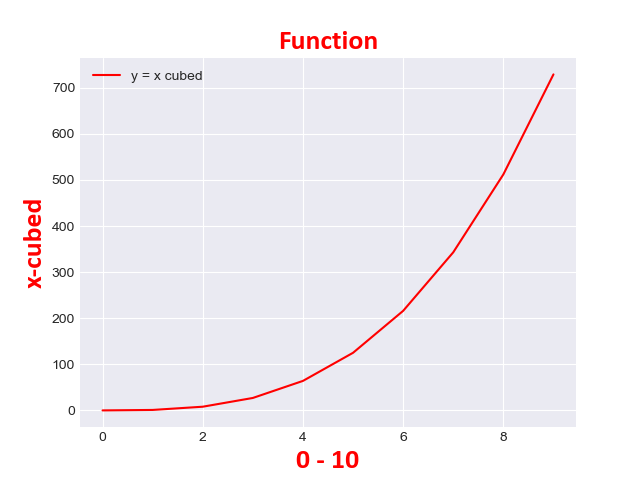
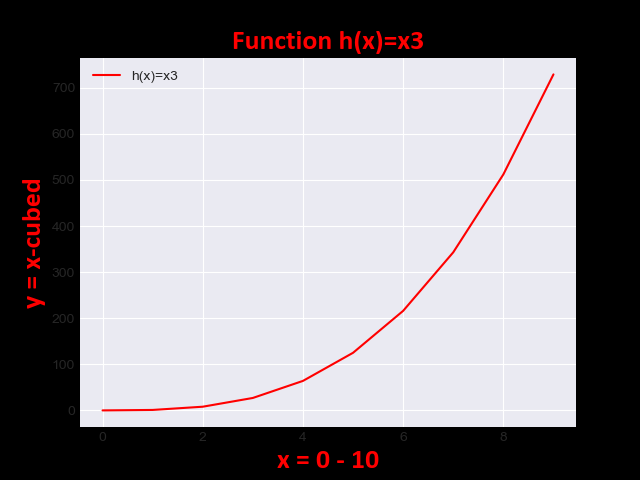
Title and Font
Changed the font size of the histogram to 18.
Changed the title and labels of the line plot
Looks nicer now.

diff --git a/plottask.py b/plottask.py
@@ -8,7 +8,7 @@ import matplotlib.pyplot as plt
 font_for_histogram = {'family': 'cambria',
         'color':  'darkblue',
         'weight': 'normal',
-        'size': 14,
+        'size': 18,
         }
 
 font_for_plot = {'family': 'calibri',
@@ -42,10 +42,10 @@ ypoints = xpoints**3
 
 #plotting the function
 plt.style.use("seaborn-darkgrid")
-plt.plot(xpoints, ypoints, 'r', label = 'y = x cubed')
-plt.title("Function", color='red', fontdict=font_for_plot)
-plt.xlabel("0 - 10", color='red', fontdict=font_for_plot)
-plt.ylabel("x-cubed", color='red', fontdict=font_for_plot)
+plt.plot(xpoints, ypoints, 'r', label = 'h(x)=x3')
+plt.title("Function h(x)=x3", color='red', fontdict=font_for_plot)
+plt.xlabel("x = 0 - 10", color='red', fontdict=font_for_plot)
+plt.ylabel("y = x-cubed", color='red', fontdict=font_for_plot)
 plt.legend()
 
 #show the plot
